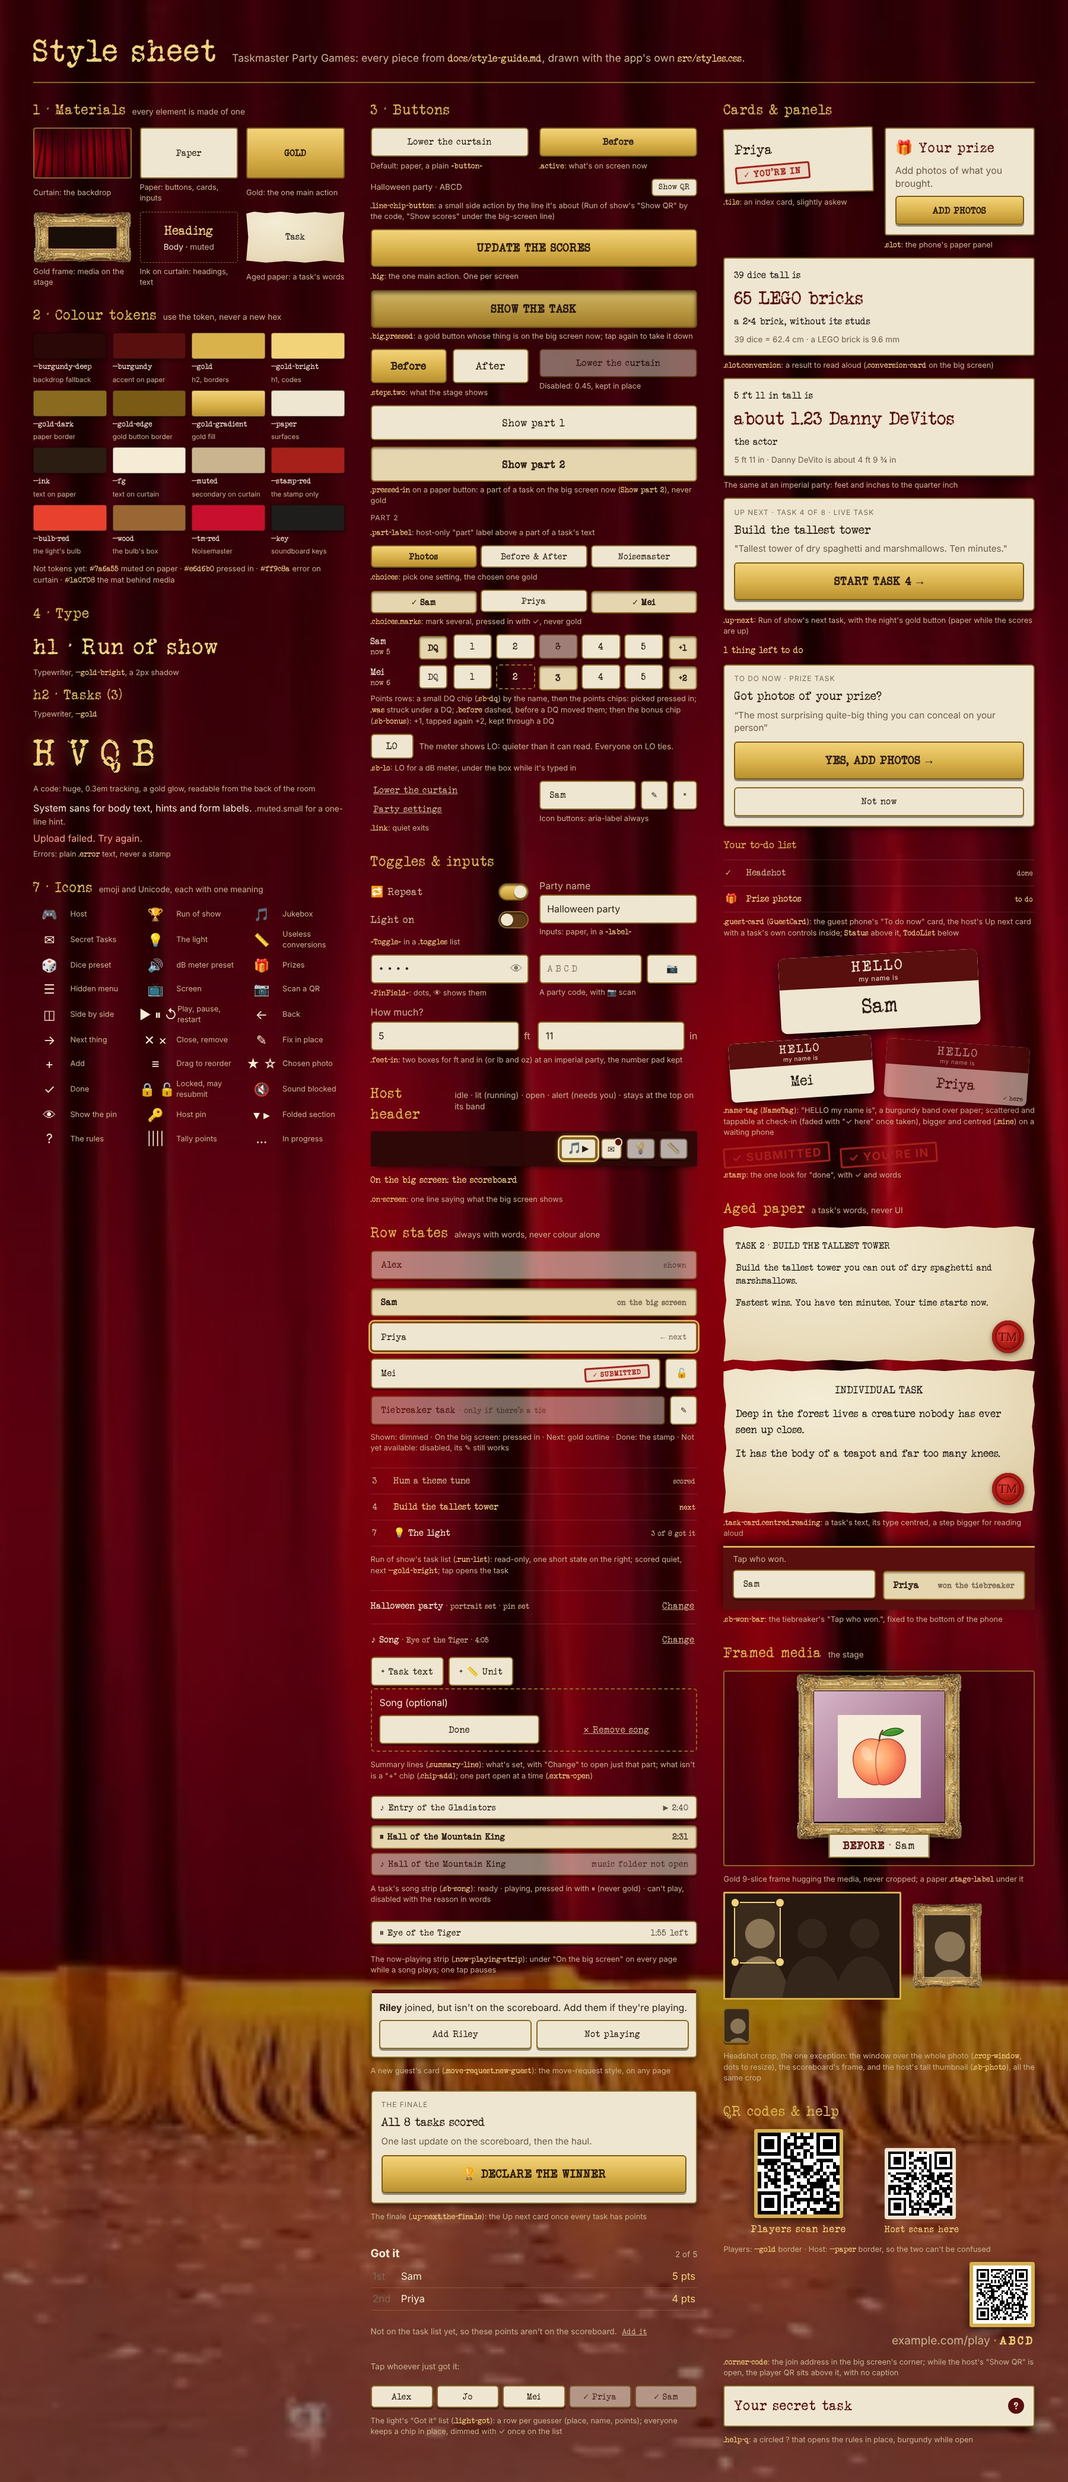
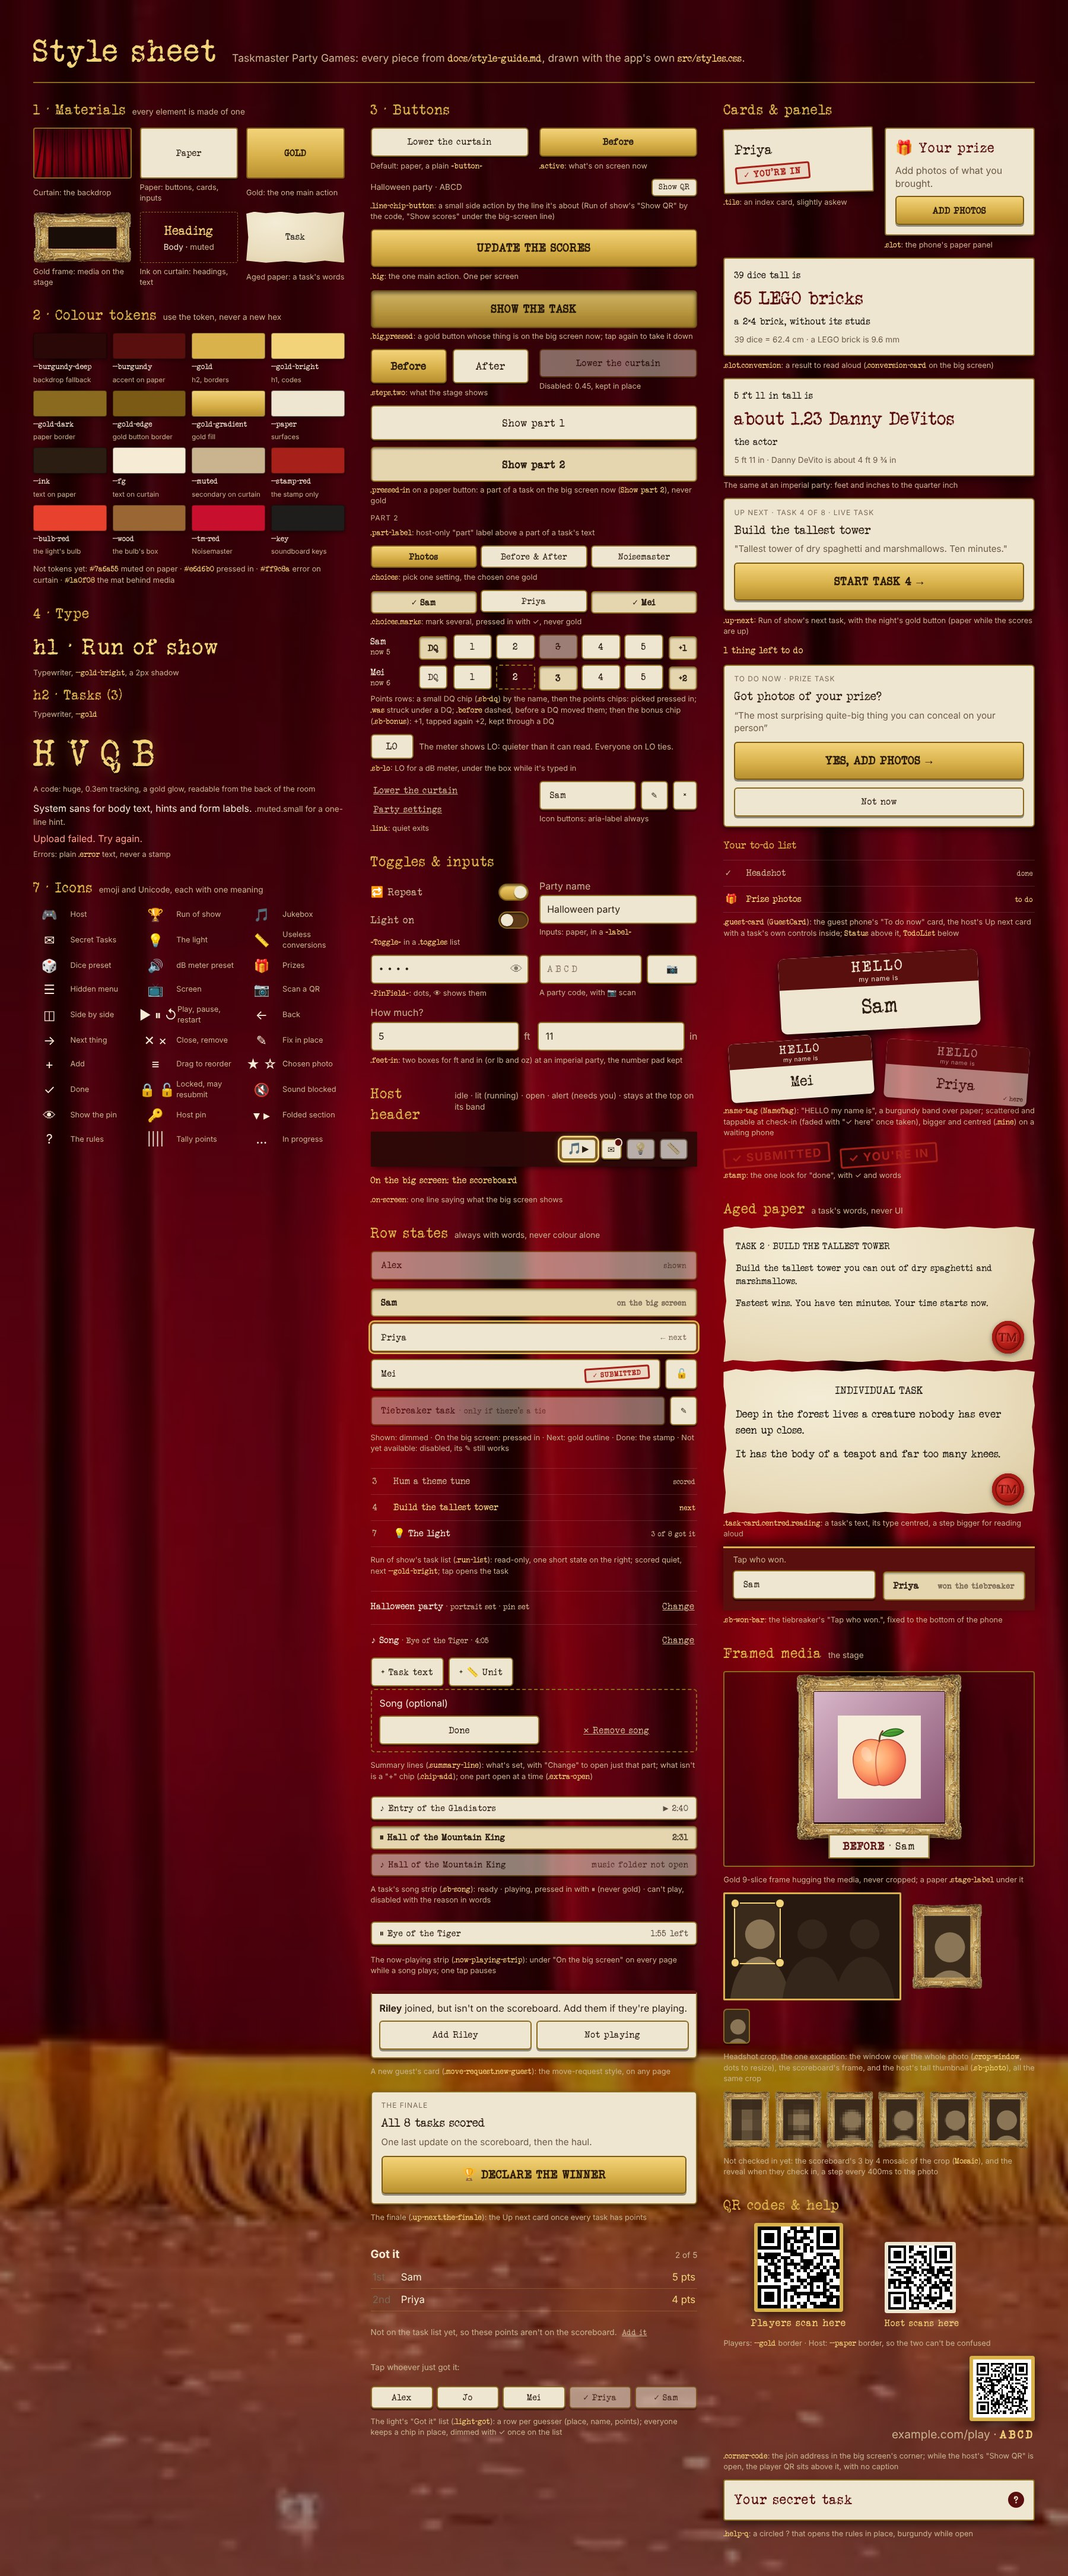
Document the pixelated headshots: style guide, style sheet and screens
Claude-Session: https://claude.ai/code/session_01FREiDTqNYbGwhH7GcL92Yx

diff --git a/docs/style-sheet/sheet.tsx b/docs/style-sheet/sheet.tsx
@@ -14,6 +14,7 @@ import type { Session } from "../../src/types";
 import peach from "../../src/assets/box-objects/peach.svg";
 import frame from "../../src/assets/frame.png";
 import { cropFill } from "../../src/scoreboard/crop";
+import { Mosaic } from "../../src/scoreboard/Mosaic";
 
 const noop = () => {};
 // A wide group shot cropped onto the person on the left, as on the crop page.
@@ -265,6 +266,11 @@ function Sheet() {
               <button className="sb-photo" style={{ flex: "none" }}><span className="sb-photo-fill" style={cropFill(group, crop)} /></button>
             </div>
             <Cap>Headshot crop, the one exception: the window over the whole photo (<code>.crop-window</code>, dots to resize), the scoreboard's frame, and the host's tall thumbnail (<code>.sb-photo</code>), all the same crop</Cap>
+            <div className="mosaic-steps">
+              {[3, 6, 12, 24, 48].map((cols) => <div key={cols} className="crop-frame"><div className="crop-fill"><Mosaic photo={group} crop={crop} cols={cols} rows={(cols * 4) / 3} /></div><img src={frame} alt="" /></div>)}
+              <div className="crop-frame"><div className="crop-fill" style={cropFill(group, crop)} /><img src={frame} alt="" /></div>
+            </div>
+            <Cap>Not checked in yet: the scoreboard's 3 by 4 mosaic of the crop (<code>Mosaic</code>), and the reveal when they check in, a step every 400ms to the photo</Cap>
           </Sec>
           <Sec title="QR codes &amp; help">
             <div className="pair" style={{ alignItems: "end" }}>

diff --git a/docs/style-sheet/sheet.css b/docs/style-sheet/sheet.css
@@ -26,3 +26,8 @@
 .stage-box .frame img { width: auto !important; height: 220px; }
 .stage-box .stage-label { font-size: 1.15rem; bottom: 12px; }
 .mini-phone { width: 100%; }
+
+/* The scoreboard's mosaic outside the stage (scoreboard.css styles it there). */
+.crop-fill .sb-mosaic { position: absolute; inset: 0; width: 100%; height: 100%; image-rendering: pixelated; }
+.mosaic-steps { display: flex; flex-wrap: wrap; gap: 0.5rem; }
+.mosaic-steps .crop-frame { height: 6rem; }

diff --git a/docs/style-guide.md b/docs/style-guide.md
@@ -143,6 +143,8 @@ Photos and videos on the stage are **always** in the gold frame (`frame.png` as 
 
 **Headshot crops are the one exception, and only on the scoreboard and the host's thumbnails.** The scoreboard's window (140 by 184 inside its frame) always crops a headshot; the host can choose which part (`crop` beside `photo`, as shares of the photo; `cropFill` in `src/scoreboard/crop.ts` draws it), and with none it's centred, as it always was. The stored photo is never changed. The host remote's headshot thumbnails (Plan the party's contestants, the arrivals list) take the window's shape and show the same crop, so the list and the TV can't disagree. The Headshot task, the photo grid, the prize haul and the guest phone show the whole photo. A new photo clears its crop. See: [headshot-crop-scoreboard.jpg](screens/headshot-crop-scoreboard.jpg).
 
+**Not checked in yet: a mosaic.** On the big screen's scoreboard, anyone with a headshot who hasn't checked in is a 3 by 4 mosaic of their crop (`Mosaic.tsx`: each block the average colour of what it covers, drawn on a canvas blown up with `image-rendering: pixelated`, so the blocks stay sharp), so the room can guess who's still coming. Nothing else changes: the frame, the sway, the seal and the order. When they check in it sharpens a step every 400ms (3×4, 6×8, 12×16, 24×32, 48×64, then the photo: 2s, like the scores ticking up); turning the switch off plays the same reveal for everyone still pixelated. A face that's sharp when the scoreboard comes up never animates. Only the big screen: the host's thumbnails and the guest's phone always show the face. On unless the host turns off "Pixelate until checked in" in Plan the party (`scoreboard/pixelate: false`). See: [pixelate-main-arriving.jpg](screens/pixelate-main-arriving.jpg), [pixelate-main-reveal.jpg](screens/pixelate-main-reveal.jpg).
+
 See: [headshot-task-main-everyone.jpg](screens/headshot-task-main-everyone.jpg), [prize-main-photo.jpg](screens/prize-main-photo.jpg).
 
 ### QR codes
@@ -215,7 +217,7 @@ See: [guest-home-waiting.jpg](screens/guest-home-waiting.jpg), [guest-home-prize
 - **Plan the party** (`Planning.tsx`): everything set up before the night, behind the link at the bottom of Run of show, in the order you'd do it. Not for use mid-show, so ✕ and ≡ are safe here.
   1. **The party** as a summary line (`PartySummary`): "Halloween party · portrait set · pin set · metric" with Change, which opens its name, portrait, host pin and "📏 Conversions in" (Metric · Imperial as `.choices.two`, metric by default, with a muted line saying what it changes) in place. See: [host-party-units.jpg](screens/host-party-units.jpg).
   2. `Tasks (N)`: `≡` (drag to reorder), the task's name (number, "· app task", the note in quotes, "5 contestants scored") and `✎`, which opens the task's own page. No ▶ Start: starting is Run of show's job. Under the list "+ Live task" and "+ App task" side by side, then the **tiebreaker as a summary line** (outside the running order) with its own ✎.
-  3. `Contestants (N)`: the headshot as a tall thumbnail in the scoreboard window's shape, showing its crop (with none, tap to add one; with one, tap to open "Greg's headshot" in the row with paper Crop and Replace and a quiet Cancel, laid out like Rename) · name with "checked in" / "not yet" · `×`, guests here but not on the scoreboard with "+ Add", then a "Add contestants, one per line" box.
+  3. `Contestants (N)`: the "Pixelate until checked in" switch (on to start) and a muted line, "On the big screen's scoreboard only. Each face sharpens as they check in." ([pixelate-host-plan.jpg](screens/pixelate-host-plan.jpg)), then the headshot as a tall thumbnail in the scoreboard window's shape, showing its crop (with none, tap to add one; with one, tap to open "Greg's headshot" in the row with paper Crop and Replace and a quiet Cancel, laid out like Rename) · name with "checked in" / "not yet" · `×`, guests here but not on the scoreboard with "+ Add", then a "Add contestants, one per line" box.
   4. "✉ Secret envelopes · 12 in the pile" as a summary line, with Change opening the pile to load it.
   5. **Task cards**: a row (`.task-cards`, a summary line) with **Download PDF** on the right (it opens the PDF in a new tab, or downloads it where the browser blocks that) and a quiet hint, "Opens in a new tab: each task's text, a page a part, to print." Under it an "Include secret tasks" switch (`Toggle`); on, a `.choices.marks` radio row "8 to cut" / "4 to fold" (pressed in, never gold) picks how the secret tasks print. The PDF is plain black Veteran Typewriter text on white Letter pages: a page per task or part (heading in capitals, centred; a paragraph per line; the block centred down the page), then the secret tasks as cards headed SECRET TASK, 8 (2 × 4) or 4 (2 × 2) a sheet, faint grey cut lines between cards and no fold lines. Built in the app (`taskCardsPdf.ts`) with the font embedded. See: [task-cards-pdf-page.jpg](screens/task-cards-pdf-page.jpg), [task-cards-pdf-secret-cut.jpg](screens/task-cards-pdf-secret-cut.jpg), [task-cards-pdf-secret-fold.jpg](screens/task-cards-pdf-secret-fold.jpg), [plan-host-task-cards.jpg](screens/plan-host-task-cards.jpg).
   6. **Setup file**: at the very bottom, a row (`.setup-file`, a summary line like the envelopes' one): **Import** and **Export** links on the right (`.summary-links`) and a quiet hint under it, "Tasks, tiebreaker, secret tasks and the light. Not guests or points." ([host-setup-file.jpg](screens/host-setup-file.jpg)). Import opens the file picker, then a check in place under the row (`.sb-add`: an h3, "Nothing changes until you tap Import.", the read-only `.run-list` of the tasks as they'll be with unchanged / new / updated / kept: has points on the right, quiet lines for Removed, Tiebreaker, Secret tasks, The light and songs missing from the music folder, gold "Import N tasks", quiet Cancel); a wrong file shows one line and Cancel instead ([host-setup-import-check.jpg](screens/host-setup-import-check.jpg)).
@@ -233,6 +235,7 @@ See: [run-of-show-host.jpg](screens/run-of-show-host.jpg), [run-of-show-host-sco
 - **Hang**: framed media drops in like a picture being hung, with a small overshoot and settle (`@keyframes hang`, ~0.6–0.7s, `cubic-bezier(0.2, 0.9, 0.3, 1.15)`). Stagger pairs by 0.25s.
 - **Press**: buttons move down 2px on press and brighten slightly on hover.
 - **Fades**: 0.15–0.25s for things appearing and disappearing (controls, photos once loaded).
+- **Sharpen**: a pixelated headshot on the scoreboard sharpens to the face when its guest checks in, a step every 400ms (§ Framed media).
 - **Tick and re-sort**: the scoreboard's scores count up in place, then the contestants slide to their new order (2s).
 - **Fade-out note** (`.fade-note`): a short confirmation that holds for 3s, then fades over 1s.
 - Show things only once they're ready. Photos stay invisible until they've loaded, and the review waits for every photo, then reveals them all together.

diff --git a/docs/screens/README.md b/docs/screens/README.md
@@ -2,7 +2,7 @@
 
 Reference screenshots of the app, taken on 2026-10-02. They show the UI at that date and go stale as it changes. The host remote's pages were redrawn on 2026-10-18 (see "The host remote, less crowded" in [redesign-decisions](../redesign-decisions.md)); the ones dated then are current, and an older host screenshot may still show the previous layout around a part that hasn't changed (the points rows, for instance).
 
-Style sheet (taken on 2026-10-17, from `src/styles.css` and the real `Toggle`, `TaskCard`, `PinField`, `SongStrip` and `GotIt` components; re-render it with [docs/style-sheet](../style-sheet/README.md)):
+Style sheet (taken on 2026-10-17, from `src/styles.css` and the real `Toggle`, `TaskCard`, `PinField`, `SongStrip`, `GotIt` and `Mosaic` components; re-render it with [docs/style-sheet](../style-sheet/README.md)):
 
 | File | What it shows |
 |---|---|
@@ -116,6 +116,9 @@ Scoreboard (taken on 2026-10-12, from the real components with made-up sessions;
 | `headshot-crop-page.jpg` | Crop opened on Greg's headshot: "← Plan the party", his whole group shot with the gold window (a dot on each corner to resize it) dragged onto him and the rest dimmed, the scoreboard's gold frame beside it showing the crop, "Back to the middle", gold Save and quiet Cancel (sketch, 2026-10-19, from the ABCD party) |
 | `headshot-crop-saved.jpg` | Back on Plan the party after Save: Greg's tall thumbnail now shows the part of his group shot he cropped to, the others still centred (sketch, 2026-10-19, from the ABCD party) |
 | `headshot-crop-scoreboard.jpg` | Main screen: the scoreboard after the Prize task's update, Greg (9) framed on just him from his wide group shot by his saved crop, everyone else centred as before (sketch, 2026-10-19, from the ABCD party) |
+| `pixelate-host-plan.jpg` | Plan the party, Contestants mid-arrival: "Pixelate until checked in" switched on under the heading with its muted line, Alex, Greg and Priya "checked in", Mei, Sam and Tom (no headshot yet) "not yet" (2026-10-20, from the ABCD party) |
+| `pixelate-main-arriving.jpg` | Main screen: the scoreboard as guests arrive, before any points. Alex, Greg and Priya's faces; Mei and Sam, not checked in, as 3 by 4 mosaics of their crops; Tom's camera placeholder (2026-10-20, from the ABCD party) |
+| `pixelate-main-reveal.jpg` | Sam's frame as he checks in, left to right: the 3 by 4 mosaic, then 6×8, 12×16, 24×32, 48×64 and his face, 400ms a step (drawn with `node docs/guest-shots/reveal.mjs`, 2026-10-20, from the ABCD party) |
 | `headshot-crop-arrivals.jpg` | Run of show before the first task, "Here so far · 5 of 6": tall thumbnails in the scoreboard window's shape, Greg's showing his crop, Sam "not yet", Tom "checked in · no headshot yet" (sketch, 2026-10-19, from the ABCD party) |
 | `scoreboard-host-update.jpg` | 🏆 with the scoreboard up: gold "Update the scores · N new tasks" |
 | `scoreboard-host-remote-scoreboard-up.jpg` | The remote's main view while the scoreboard is on the big screen |

diff --git a/docs/style-sheet/README.md b/docs/style-sheet/README.md
@@ -1,6 +1,6 @@
 # Style sheet
 
-One page with every piece of [the style guide](../style-guide.md): materials, colour tokens, type, buttons, toggles, inputs, the host header, row states, cards, aged paper, framed media, QR codes, help and icons. It imports `src/styles.css` and the real `Toggle`, `TaskCard`, `PinField`, `SongStrip` and `GotIt` components, so it changes when they do. It's a dev-only page and isn't part of the build.
+One page with every piece of [the style guide](../style-guide.md): materials, colour tokens, type, buttons, toggles, inputs, the host header, row states, cards, aged paper, framed media, QR codes, help and icons. It imports `src/styles.css` and the real `Toggle`, `TaskCard`, `PinField`, `SongStrip`, `GotIt` and `Mosaic` components, so it changes when they do. It's a dev-only page and isn't part of the build.
 
 **Keep it current.** When a change adds or changes something the style guide describes, update `sheet.tsx` to match and re-render the image:
 
